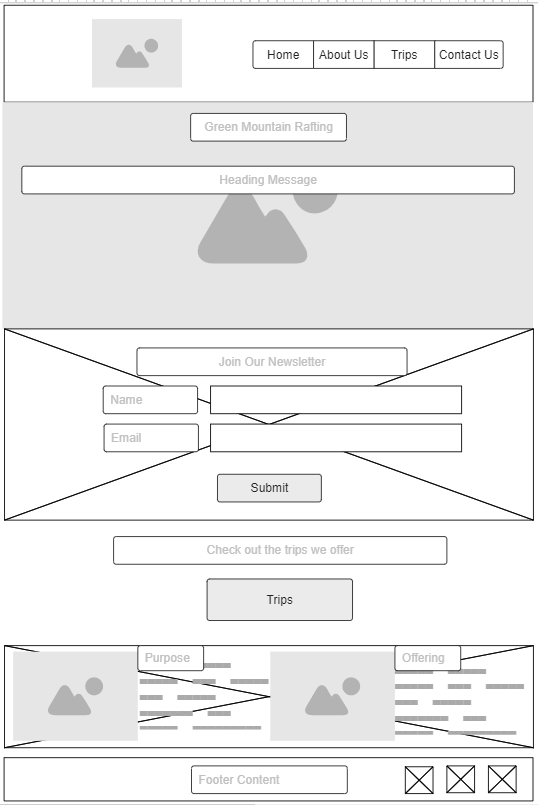
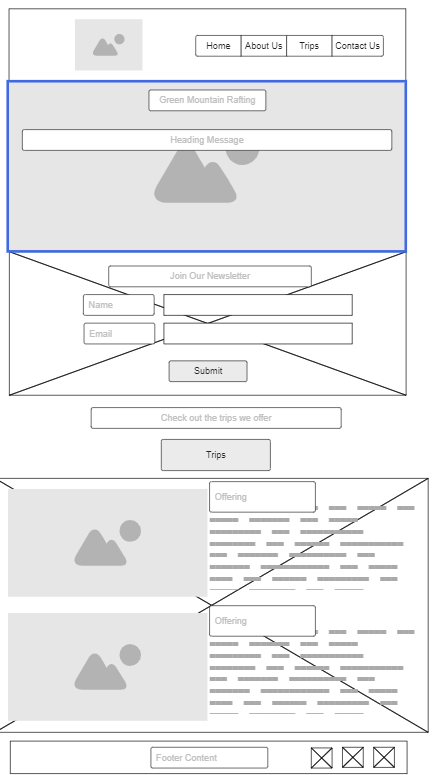
everything actually works

diff --git a/wwr/about.html b/wwr/about.html
@@ -27,33 +27,40 @@
                 <p>Here at Green Mountain Rafting it's our goal to bring our clients the best experience they can have out on the river! Our motto is . . .</p>
             </article>
         </div>
-        <section class="history">
-            <p class="color">Lorem ipsum dolor sit, amet consectetur adipisicing elit. Dolorum debitis facere eaque quo odit illum numquam reprehenderit modi sunt perferendis nam libero inventore molestiae, fugiat, repudiandae iste. Id, quibusdam voluptatem!</p>
-            <h2>History</h2>
-            <p class="color">Lorem ipsum dolor sit, amet consectetur adipisicing elit. Dolorum debitis facere eaque quo odit illum numquam reprehenderit modi sunt perferendis nam libero inventore molestiae, fugiat, repudiandae iste. Id, quibusdam voluptatem!</p>
+        <section>
+            <h2 style="margin-top: 15px;">History</h2>
+            <div class="history">
+                <p class="color">Lorem ipsum dolor sit, amet consectetur adipisicing elit. Dolorum debitis facere eaque quo odit illum numquam reprehenderit modi sunt perferendis nam libero inventore molestiae, fugiat, repudiandae iste. Id, quibusdam voluptatem!</p>
+                <div>
+                    <img src="images/raft_history.png" alt="Raft Art" class="img_history">
+                </div>
+                <p class="color">Lorem ipsum dolor sit, amet consectetur adipisicing elit. Dolorum debitis facere eaque quo odit illum numquam reprehenderit modi sunt perferendis nam libero inventore molestiae, fugiat, repudiandae iste. Id, quibusdam voluptatem!</p>
+            </div>
         </section>
         <section>
-            <h2>Adventure Awaits You!</h2>
-            <figure>
-                <img src="images/adventure0.jpg" alt="Rafting Photo"  class="img-about">
-                <figcaption class="color">Posiedon's Fury</figcaption>
-            </figure>
-            <figure>
-                <img src="images/adventure1.jpg" alt="Rafting Photo"  class="img-about">
-                <figcaption class="color">The team after a hard day of work</figcaption>
-            </figure>
-            <figure>
-                <img src="images/adventure2.jpg" alt="Rafting Photo" class="img-about">
-                <figcaption class="color">Day adventure</figcaption>
-            </figure>
-            <figure>
-                <img src="images/adventure3.jpg" alt="Rafting Photo" class="img-about">
-                <figcaption class="color">3 day adventure</figcaption>
-            </figure>
-            <figure>
-                <img src="images/adventure4.jpg" alt="Rafting Photo" class="img-about">
-                <figcaption class="color">The safety gear</figcaption>
-            </figure>  
+            <h2 style="margin-bottom: 15px;">Adventure Awaits You!</h2>
+            <div class="section-about">
+                <figure class="about-pics">
+                    <img src="images/adventure0.jpg" alt="Rafting Photo"  class="img-about">
+                    <figcaption class="color img-about">Posiedon's Fury</figcaption>
+                </figure>
+                <figure class="about-pics">
+                    <img src="images/adventure1.jpg" alt="Rafting Photo"  class="img-about">
+                    <figcaption class="color img-about">The team after a hard day of work</figcaption>
+                </figure>
+                <figure class="about-pics">
+                    <img src="images/adventure2.jpg" alt="Rafting Photo" class="img-about">
+                    <figcaption class="color img-about">Day adventure</figcaption>
+                </figure>
+                <figure class="about-pics">
+                    <img src="images/adventure3.jpg" alt="Rafting Photo" class="img-about">
+                    <figcaption class="color img-about">2 day adventure</figcaption>
+                </figure>
+                <figure class="about-pics">
+                    <img src="images/adventure4.jpg" alt="Rafting Photo" class="img-about">
+                    <figcaption class="color img-about">The safety gear</figcaption>
+                </figure>  
+            </div>
         </section>
     </main>
     <footer>

diff --git a/wwr/styles/rafting.css b/wwr/styles/rafting.css
@@ -1,7 +1,7 @@
 @import url('https://fonts.googleapis.com/css2?family=Patua+One&family=Work+Sans&display=swap');
 
 * {
-    width: 900px;
+    max-width: 100%;
     text-align: center;
     margin: auto;
 }
@@ -37,12 +37,10 @@ p {
 
 header {
     background-color: var(--accent1-color);
-    height: 150px;
-    width: 900px;
+    max-width: 100%;
 }
 
 header img{
-    height: 100px;
     width: 100px;
     border-radius: 150px;
     align-self: center;
@@ -50,8 +48,7 @@ header img{
 }
 
 header nav{
-    align-self: center;
-    height: 50px;
+    max-width: 80%;
     border: solid 2px black;
 }
 
@@ -81,21 +78,25 @@ nav a:hover {
 
 .hero {
     position: relative;
+    max-width: 100%;
+    overflow: hidden;
 }
 
 .hero img {
     width: 100%;
     height: auto;
-
 }
 
 .hero h1 {
     position: absolute;
+    width: 100%;
     top: 20px;
+    margin: 0 auto;
 }
 
 .hero article {
     position: absolute;
+    width: 100%;
     top: 100px;
     color: white;
     background-color: rgba(10,10,10,.70);
@@ -111,9 +112,21 @@ nav a:hover {
     margin-right: 10px;
 }
 
+.section-about {
+    max-width: 100%;
+    overflow: hidden;
+    display:flex;
+    align-items: stretch;
+    justify-content: space-around;
+}
+
+.about-pics {
+    max-width: 15%;
+    margin:0;
+}
+
 .img-about {
-    width: 300px;
-    height: 200px;
+    max-width: 100%;
 }
 
 .grid {
@@ -128,14 +141,18 @@ nav{
 
 .img {
     width: 60px;
-    height: 60px;
+    
 }
 
 .history {
-    height: 300px;
-    width: 900px;
-    display: flex;
-    flex-flow: row;
+    max-width: 100%;
+    overflow: hidden;
+    display: grid;
+    grid-template-columns: 1fr 1fr 1fr;
+}
+
+.img_history {
+    max-width: 100%
 }
 
 footer {
@@ -155,6 +172,8 @@ footer a {
     margin: 4px;
 }
 
+
+
 /* contact us page css */
 
 
@@ -166,32 +185,28 @@ footer a {
     color: white;
 }
 
-.section {
-    display: grid;
-    grid-template-columns: repeat(2, 1fr);
-}
-
-.section h1 {
-    grid-row: 1/2;
-    grid-column: 1/3;
-}
-
 .flex {
-    display: flex;
-}
-
-.flex div {
-    width: 100%;
+    max-width: 100%;
+    display: grid;
+    grid-template-columns: 1fr 1fr;
 }
 
 .section iframe {
-    width: 300px;
-    height: 200px;
+    max-width: 80%;
+    max-height: 50%;
+    padding: 2rem;
+}
+
+.contact_pics {
+    display: grid;
+    overflow: hidden;
+    grid-template-columns: 1fr 1fr 1fr;
+    grid-gap: 0.5rem;
 }
 
 .img_contact {
-    width: 200px;
-    height: 125px;
+    max-width: 100%;
+    padding: 0.5rem;
 }
 
 .button_contact {
@@ -203,25 +218,32 @@ footer a {
 }
 
 .width_contact {
-    width: 400px;
-    margin: 10px;
+    display: grid;
+    width: 50%;
+    margin: 0.5rem auto;
 }
 
 .checkbox {
     margin: 10px;
 }
 
-
-
 /* trips page css */
 
+.grid_trips {
+    max-width: 100%;
+    display: grid;
+    grid-template-columns: 1fr 1fr 1fr;
+    align-items: start;
+}
+
 .figure {
-    width: 280px;
+    max-width: 100%;
+    margin: 0.5rem 1rem;
+    align-self: stretch;
 }
 
 .img_trips {
-    width: 300px;
-    height: 200px;
+    max-width: 100%;
     color: white;
     border: solid 3px white;
     border-radius: 10px;
@@ -229,7 +251,7 @@ footer a {
 
 .figcaption {
     color: white;
-    width: 280px;
+    max-width: 100%;
 }
 
 td {
@@ -253,4 +275,11 @@ td {
     padding: 10px;
     border: solid white 3px;
     border-radius: 30px;
+}
+
+.grid_home {
+    display: grid;
+    grid-template-columns: 1fr 1fr;
+    grid-gap: 0.5rem;
+    margin: 1rem auto
 }

diff --git a/wwr/contact.html b/wwr/contact.html
@@ -35,26 +35,26 @@
         <section>
             <h2>Contact Us</h2>
             <form>
-                <div>
+                <div class="width_contact">
                     <label for="user-name" class="color">Please enter your full name:</label>
-                    <input type="text" id="user-name" name="user" class="width_contact">
+                    <input type="text" id="user-name" name="user">
                 </div>
-                <div>
+                <div class="width_contact">
                     <label for="email" class="color">Please enter your email:</label>
-                    <input type="text" id="email" name="email" class="width_contact">
+                    <input type="text" id="email" name="email">
                 </div>
-                <div>
+                <div class="width_contact">
                     <label for="inquiry" class="color">What is the purpose of your message?</label>
-                    <select id="inquiry" name="inquiry" class="width_contact">
+                    <select id="inquiry" name="inquiry">
                         <option value="" selected disabled>Choose One ...</option>
                         <option value="General Inquiry">General Inquiry</option>
                         <option value="Reservation Questions">Reservation Questions</option>
                         <option value="Website suggestion">Website Suggestion</option>
                     </select>
                 </div>
-                <div>
+                <div class="width_contact">
                     <label for="message" class="color">Please write your message:</label>
-                    <textarea id="message" name="message" rows="4" class="width_contact"></textarea>
+                    <textarea id="message" name="message" rows="4"></textarea>
                 </div>
                 <div>
                     <label for="checkbox" class="color">Please subscribe to the monthly newsletter</label>
@@ -67,7 +67,7 @@
                 </div>
             </form>
         </section>
-        <div class="">
+        <div class="contact_pics">
             <figure>
                 <img src="images/happy_employee1.jpg" alt="John Glen - Raft Guide" class="img_contact">
                 <figcaption class="color">John Glen</figcaption>

diff --git a/wwr/index.html b/wwr/index.html
@@ -49,15 +49,19 @@
             <a href="trips.html" target="_blank" style="width: 150px;"><h2 class="trips_link">Trips</h2></a>
         </div>
         <section style="margin-top: 30px;">
-            <div>
-                <img src="images/mountain.png" alt="Idaho Mountains alongside a river" style="width: 300px; height: 200px;">
-                <h3 class="color">Our purpose</h3>
-                <p class="color" style="margin-left: 0px; width: 300px;">Our purpose is to show more people the beauty of nature through the sport of river rafting.</p>
+            <div class="grid_home">
+                <img src="images/mountain.png" alt="Idaho Mountains alongside a river">
+                <div>
+                    <h3 class="color">Our purpose</h3>
+                    <p class="color">Our purpose is to show more people the beauty of nature through the sport of river rafting.</p>
+                </div>
             </div>
-            <div>
-                <img src="images/fun_time.png" alt="Raft running through whitewater rapids" style="width: 300px; height: 200px;">
-                <h3 class="color">What we offer</h3>
-                <p class="color" style="margin-left: 0px; width: 300px;">We provide a fun and easy way to enjoy the great outdoors with your family and friends.</p>
+            <div class="grid_home">
+                <img src="images/fun_time.png" alt="Raft running through whitewater rapids">
+                <div>
+                    <h3 class="color">What we offer</h3>
+                    <p class="color">We provide a fun and easy way to enjoy the great outdoors with your family and friends.</p>
+                </div>
             </div>
         </section>
     </main>

diff --git a/wwr/trips.html b/wwr/trips.html
@@ -20,20 +20,20 @@
     </header>
     <main>
         <a href="contact.html" target="_blank"><h2 style="padding-top: 30px; padding-bottom: 30px;">If you have any questions or concerns, contact us at this link</h2></a>
-        <div>
-            <div style="width: 280px; float: left;">
+        <div class="grid_trips">
+            <div>
                 <figure class="figure">
                     <img src="images/calm_river.png" alt="Raft in calm water" class="img_trips">
                     <figcaption class="figcaption">Our smallest trip, a calm half-day float.</figcaption>
                 </figure>
             </div>
-            <div style="width: 280px; float: right;">
+            <div>
                 <figure class="figure">
                     <img src="images/medium_river.png" alt="Raft in white water, flowing through a canyon" class="img_trips">
                     <figcaption class="figcaption">The most popular trip we offer, a 2-day adventure that weaves its way through a gorgeous canyon. It has features for every type of person, including our famous class-4 rapid, whiteout.</figcaption>
                 </figure>
             </div>
-            <div style="width: 280px;">
+            <div>
                 <figure class="figure">
                     <img src="images/big_river.png" alt="Raft riding through rapids" class="img_trips">
                     <figcaption class="figcaption">The longest trip we offer, a 5-day excursion that feature no less than 4 class-5 rapids, perfect for any thrill seeker.</figcaption>
